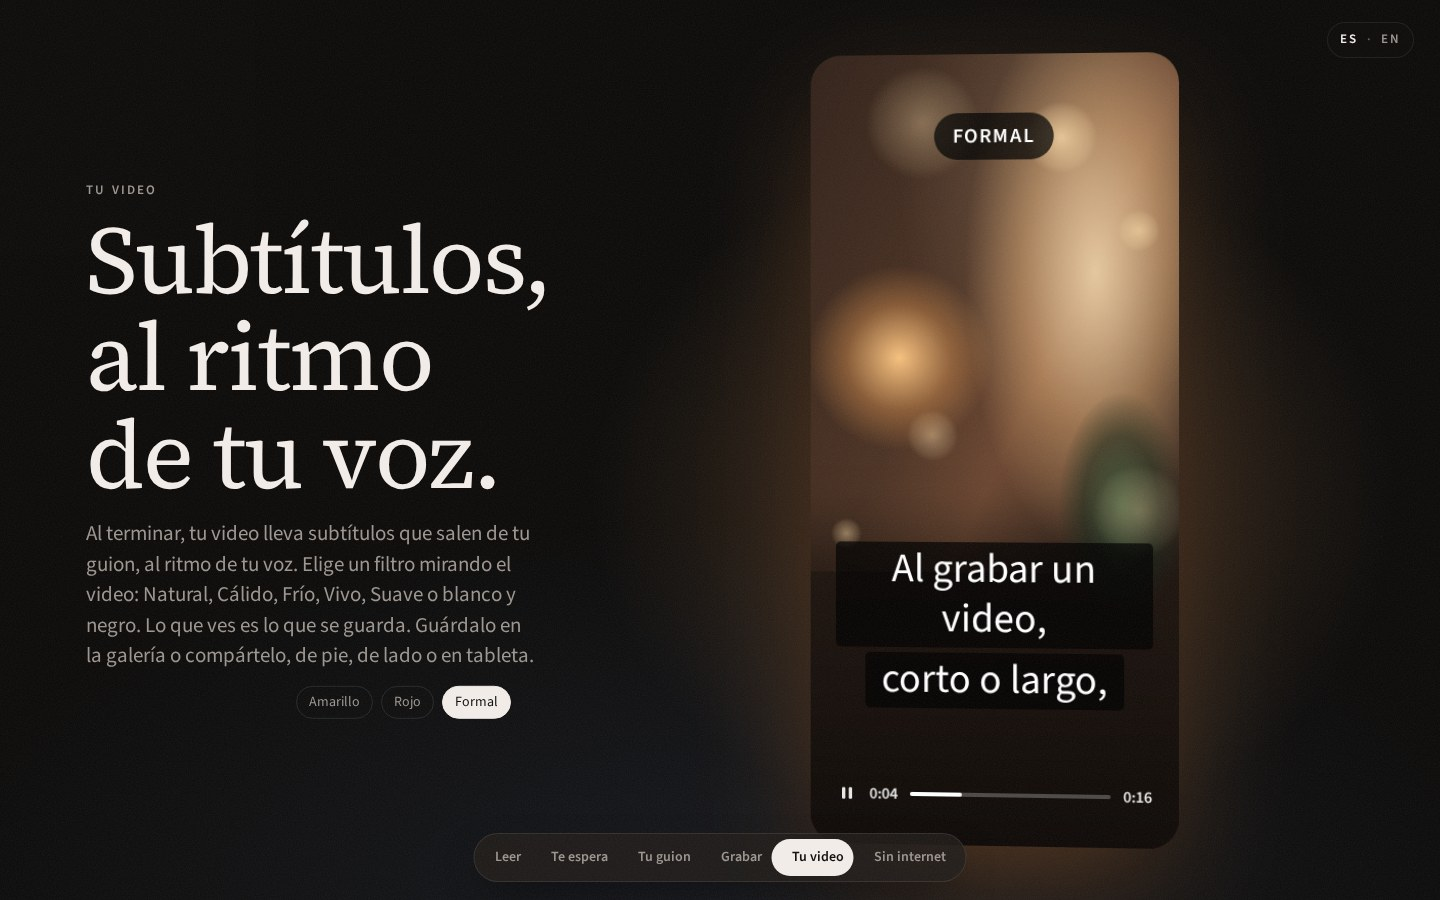
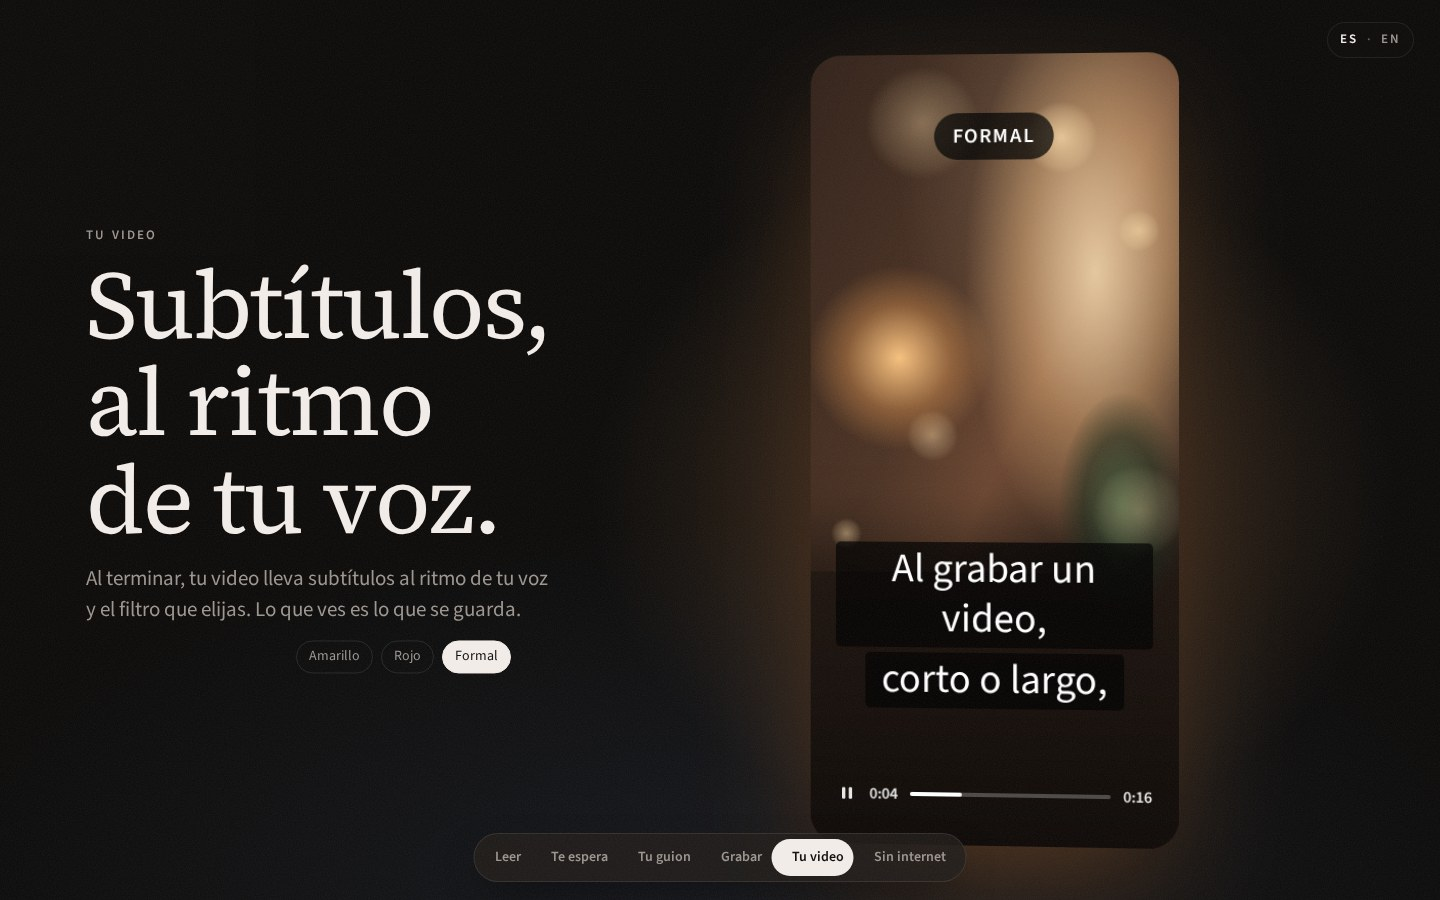
Tarea 98: bajadas mas cortas en Grabar y Subtitulos.
Las bajadas de E4 y E5, en es.js y en.js, por los textos de Javier.
Sitio armado de nuevo con node sitio/armar.mjs, y capturas nuevas de
E4b y E5a/b/c a 390 y 1440, en los dos idiomas.

Claude-Session: https://claude.ai/code/session_01JCwWnSCiokbT9ebsHojYCq

Changed region(s): [[0.0625, 0.2489, 0.375, 0.8089], [0.2188, 0.7778, 0.25, 0.8089], [0.0625, 0.1867, 0.0938, 0.2178]]

diff --git a/sitio/fuente/textos/en.js b/sitio/fuente/textos/en.js
@@ -31,8 +31,8 @@ export default {
   e1: { capitulo: 'Read', titular: 'You talk. It&nbsp;follows.', bajada: 'Speak, and the text moves with you. No hands, no scrolling.' },
   e2: { capitulo: 'It waits', titular: 'Others keep scrolling. <span class="acento">Sigo waits.</span>', bajada: 'Stop to think, and the text waits for you. Start talking again, and it picks up right where you are.' },
   e3: { capitulo: 'Your script', titular: 'Mark what matters.', bajada: 'Bold the lines you want to land. Color the shifts in tone. Highlight what you can’t afford to miss.' },
-  e4: { capitulo: 'Record', titular: 'Eyes on the lens.', bajada: 'The text sits right under the camera. You look into the lens, not down at the screen. Pause whenever you want: what happens during the pause stays out of the video. Away from the phone, your palm pauses or resumes, and while paused a V sign finishes. It starts off, and only works with the front camera.' },
-  e5: { capitulo: 'Your video', titular: 'Captions that keep time.', bajada: 'When you’re done, your video comes with captions built from your script, in step with your voice. Pick a filter while you watch it: Natural, Warm, Cool, Vivid, Soft or black and white. What you see is what gets saved. Save it to your gallery or share it, portrait, landscape or on a tablet.' },
+  e4: { capitulo: 'Record', titular: 'Eyes on the lens.', bajada: 'The text sits under the camera: you look at the lens, not the screen. Pause whenever you like, and the pause stays out of the video. Away from the phone, pause with your palm.' },
+  e5: { capitulo: 'Your video', titular: 'Captions that keep time.', bajada: 'When you’re done, your video has captions in time with your voice and the filter you choose. What you see is what gets saved.' },
   e6: { capitulo: 'Offline', titular: 'No signal? No problem.', bajada: 'Works without internet. Your voice never leaves your phone.' },
 
   estilos: { amarillo: 'Yellow', rojo: 'Red', formal: 'Formal' },

diff --git a/sitio/fuente/textos/es.js b/sitio/fuente/textos/es.js
@@ -36,8 +36,8 @@ export default {
   e1: { capitulo: 'Leer', titular: 'Sigue tu voz.', bajada: 'Hablas y el texto avanza contigo. Sin tocar nada.' },
   e2: { capitulo: 'Te espera', titular: 'Los demás corren. <span class="acento">Sigo te espera.</span>', bajada: 'Si te detienes a pensar, el texto espera. Cuando vuelves a hablar, sigue contigo.' },
   e3: { capitulo: 'Tu guion', titular: 'Tu guion, con intención.', bajada: 'Marca lo que quieres decir con fuerza. Pinta los cambios de tono. Destaca lo que no se te puede pasar.' },
-  e4: { capitulo: 'Grabar', titular: 'Mirando al lente.', bajada: 'El texto queda bajo la cámara. Tu mirada va al lente, no a la pantalla. Pausa cuando quieras: lo que pasa en la pausa no queda en el video. Lejos del teléfono, la palma pausa o sigue, y en pausa la V termina. Viene apagado, y solo con la cámara frontal.' },
-  e5: { capitulo: 'Tu video', titular: 'Subtítulos, al ritmo de tu voz.', bajada: 'Al terminar, tu video lleva subtítulos que salen de tu guion, al ritmo de tu voz. Elige un filtro mirando el video: Natural, Cálido, Frío, Vivo, Suave o blanco y negro. Lo que ves es lo que se guarda. Guárdalo en la galería o compártelo, de pie, de lado o en tableta.' },
+  e4: { capitulo: 'Grabar', titular: 'Mirando al lente.', bajada: 'El texto queda bajo la cámara: miras al lente, no a la pantalla. Pausa cuando quieras y la pausa no queda en el video. Lejos del teléfono, pausa con la palma.' },
+  e5: { capitulo: 'Tu video', titular: 'Subtítulos, al ritmo de tu voz.', bajada: 'Al terminar, tu video lleva subtítulos al ritmo de tu voz y el filtro que elijas. Lo que ves es lo que se guarda.' },
   e6: { capitulo: 'Sin internet', titular: 'Sin internet.', bajada: 'Funciona sin internet. Tu voz no sale del teléfono.' },
 
   // Los tres estilos de subtitulos de la aplicacion. La pagina los usa tambien en la etiqueta

diff --git a/sitio/public/en.html b/sitio/public/en.html
@@ -862,12 +862,12 @@ html:not(.js) .telefonos, html:not(.js) .pildora, html:not(.js) .tarjetas, html:
       <div class="texto-escena" data-escena="4">
         <p class="capitulo">Record</p>
         <h2 class="titular">Eyes on the lens.</h2>
-        <p class="bajada">The text sits right under the camera. You look into the lens, not down at the screen. Pause whenever you want: what happens during the pause stays out of the video. Away from the phone, your palm pauses or resumes, and while paused a V sign finishes. It starts off, and only works with the front camera.</p>
+        <p class="bajada">The text sits under the camera: you look at the lens, not the screen. Pause whenever you like, and the pause stays out of the video. Away from the phone, pause with your palm.</p>
       </div>
       <div class="texto-escena" data-escena="5">
         <p class="capitulo">Your video</p>
         <h2 class="titular">Captions that keep time.</h2>
-        <p class="bajada">When you’re done, your video comes with captions built from your script, in step with your voice. Pick a filter while you watch it: Natural, Warm, Cool, Vivid, Soft or black and white. What you see is what gets saved. Save it to your gallery or share it, portrait, landscape or on a tablet.</p>
+        <p class="bajada">When you’re done, your video has captions in time with your voice and the filter you choose. What you see is what gets saved.</p>
         <p class="estilos-subtitulo" aria-hidden="true"><span data-estilo="amarillo">Yellow</span><span data-estilo="rojo">Red</span><span data-estilo="formal">Formal</span></p>
       </div>
       <div class="texto-escena" data-escena="6">

diff --git a/sitio/public/index.html b/sitio/public/index.html
@@ -862,12 +862,12 @@ html:not(.js) .telefonos, html:not(.js) .pildora, html:not(.js) .tarjetas, html:
       <div class="texto-escena" data-escena="4">
         <p class="capitulo">Grabar</p>
         <h2 class="titular">Mirando al lente.</h2>
-        <p class="bajada">El texto queda bajo la cámara. Tu mirada va al lente, no a la pantalla. Pausa cuando quieras: lo que pasa en la pausa no queda en el video. Lejos del teléfono, la palma pausa o sigue, y en pausa la V termina. Viene apagado, y solo con la cámara frontal.</p>
+        <p class="bajada">El texto queda bajo la cámara: miras al lente, no a la pantalla. Pausa cuando quieras y la pausa no queda en el video. Lejos del teléfono, pausa con la palma.</p>
       </div>
       <div class="texto-escena" data-escena="5">
         <p class="capitulo">Tu video</p>
         <h2 class="titular">Subtítulos, al ritmo de tu voz.</h2>
-        <p class="bajada">Al terminar, tu video lleva subtítulos que salen de tu guion, al ritmo de tu voz. Elige un filtro mirando el video: Natural, Cálido, Frío, Vivo, Suave o blanco y negro. Lo que ves es lo que se guarda. Guárdalo en la galería o compártelo, de pie, de lado o en tableta.</p>
+        <p class="bajada">Al terminar, tu video lleva subtítulos al ritmo de tu voz y el filtro que elijas. Lo que ves es lo que se guarda.</p>
         <p class="estilos-subtitulo" aria-hidden="true"><span data-estilo="amarillo">Amarillo</span><span data-estilo="rojo">Rojo</span><span data-estilo="formal">Formal</span></p>
       </div>
       <div class="texto-escena" data-escena="6">
